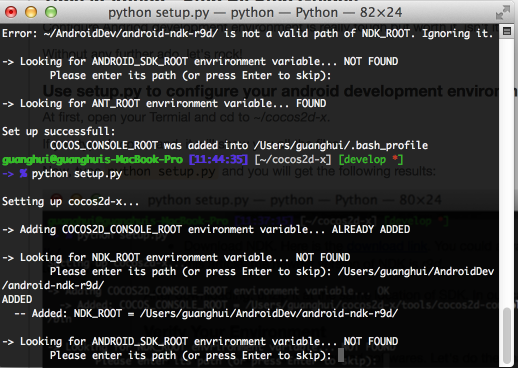
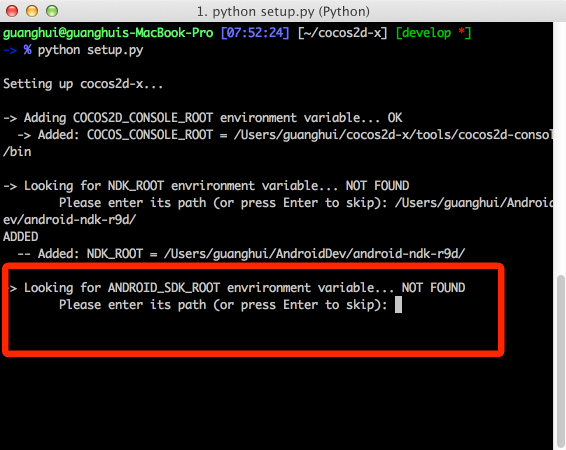
fixed #332, update

diff --git a/manual/framework/native/getting-started/v3.0/how to run cpp-tests on Andrond/en.md b/manual/framework/native/getting-started/v3.0/how to run cpp-tests on Andrond/en.md
@@ -1,6 +1,6 @@
 ## How to Run Cocos2D-X Samples on Android
 
-Let's take MacOS as an example, the process in win32 and linux is more or less the same.
+Let's take MacOS as an example, the processes on win32 and linux are more or less the same.
 
 ### Prerequisite
 
@@ -11,19 +11,19 @@ Double click the folder *cocos2d-x* and you will find a lot of files and folders
 
 ![directory](./res/cocos2dxdirectory.png)
 
-Before we configuring our development environment, let's download some dependency software at first.
+Before configuring the development environment, let's download some dependency software at first.
 
 #### Download JDK, SDK and NDK
 Since we are trying to develop Android games, so Java is a must have toolkit.
 
-- Open Your Terminal(You can hit Control-Space to open Spotlight and enter "Terminal" plus "Enter" key), input the following commands to verify whether your machine support java or not.
+- Open Your Terminal(You can hit Control-Space to open Spotlight and enter "Terminal" and hit "Enter" key), input the following commands to verify whether your machine supports java or not.
 
 ```
 java -version
 ```
-If the following lines shown on your Terminal then you may have installed [JDK](http://www.oracle.com/technetwork/java/javase/downloads/index.html) before.
+If the following lines shown on your Terminal then you may have get [JDK](http://www.oracle.com/technetwork/java/javase/downloads/index.html) properly installed.
 
-(Note, the java version number maybe different, but it's no problem, cocos2d-x, you could upgrade your java. We recommend you install JDK 1.6 or 1.7)
+(Note, the java version number may be different, but it's doesn't matter. As to cocos2d-x, you could upgrade the JDK and we recommend you to install JDK 1.6 or 1.7)
 
 ```
 java version "1.7.0_51"
@@ -33,37 +33,36 @@ Java HotSpot(TM) 64-Bit Server VM (build 24.51-b03, mixed mode)
 - Download the Android SDK. If you are using Mac, click [this link](https://developer.android.com/sdk/index.html?hl=sk) to download *ADT Bundle for Mac*.
 
 The bundle includes the newest Android SDK version plus an Eclipse version with Android Development Tool installed. So we don't need to download an extra Eclipse and install
-the ADK any more.
+the ADK manually any more.
 
-After downloading, unzip it at ~/AndroidDev directory. The folder contains two folders: *sdk* and *eclipse*. The first one contains some toolkits and a almost newest Android SDK,
-the other is an Eclipse version with ADT installed.
+After downloading it, unzip the package at ~/AndroidDev directory. The folder contains two folders: *sdk* and *eclipse*. 
 
-You could launch the Eclipse and install another SDK versions. Here is a sample:
+You could launch the Eclipse and install other SDK versions. Here is an example:
 ![donwloadSDK](./res/donwloadSDK.png)
 
-- Download NDK. Here is the [download link](https://developer.android.com/tools/sdk/ndk/index.html). You could always prefer the newest version. When we are writing this article, the newest version of NDK is *r9d*. 
+- Download NDK. Here is the [download link](https://developer.android.com/tools/sdk/ndk/index.html). You could always prefer the latest version. When we are writing this article, the latest version of NDK is *r9d*. 
 
-After downloading, unzip it at the same location of SDK. In our case, it is under *~/AndroidDev* directory.
+After downloading it, unzip the package at the same location of the Android SDK. In our case, it is under the *~/AndroidDev* directory.
 
 
 #### Verify Your Environment
 Aha, we have installed all the required softwares. Let's do the final verification.
 
-At first, we should verify that *python 2.7* is installed and is accessible under the current user's environment which means you could type `python --version` in your Terminal(or Command Line on win32) and it gives you the following result:
+At first, we should verify that *python 2.7* is installed and it is accessible under the current user's environment which means you could type `python --version` in your Terminal(or Command Line on win32) and it will give you the following result:
 
 ```
 -> % python --version
 Python 2.7.5
 ```
 
-If there is a prompt like "command not found: python", you should install it. We recommend you install python with homebrew.
+If there is a prompt like "command not found: python" which means your python environment is not correct, you should install it. We recommend you install python with homebrew.
 
 ```
 brew install python
 ```
-If the homebrew isn't be installed on your computer, please refer to [this link](http://brew.sh/) for more information.
+If the homebrew isn't  installed on your system, please refer to [this link](http://brew.sh/) for more information.
 
-At last, let's install *ant* tools. You are a homebrew user, you can simply type the following command in your terminal to install it:
+At last, let's install *ant* tools. If you are a homebrew user, you could simply type the following command in your terminal to install ant:
 
 ```
 brew install ant
@@ -98,7 +97,11 @@ Here is the screenshot:
 
 Now it's time to repeat the last procee to configure the *ANDROID_SDK_ROOT*. You can simply input `/Users/guanghui/AndroidDev/adt-bundle-mac-x86_64-20130522/sdk/`. The adt-bundle-mac-x86_64-xxxx, the xxxx number maybe different. So please note this non-trival difference.
 
-If you don't install *ant* program, it will prompt you to install *ant* first.
+If you don't install *ant* program, you should install *ant* first.
+
+After you have installed *ant*, when the scripts ask you to config the *ANT_ROOT*, you can simply hit *Enter* key and let the scripts do the remaining job for you.
+
+![setuppy03](./res/setuppy03.png)
 
 If all the environment variables are correctly configured, you should let them take effect.
 
